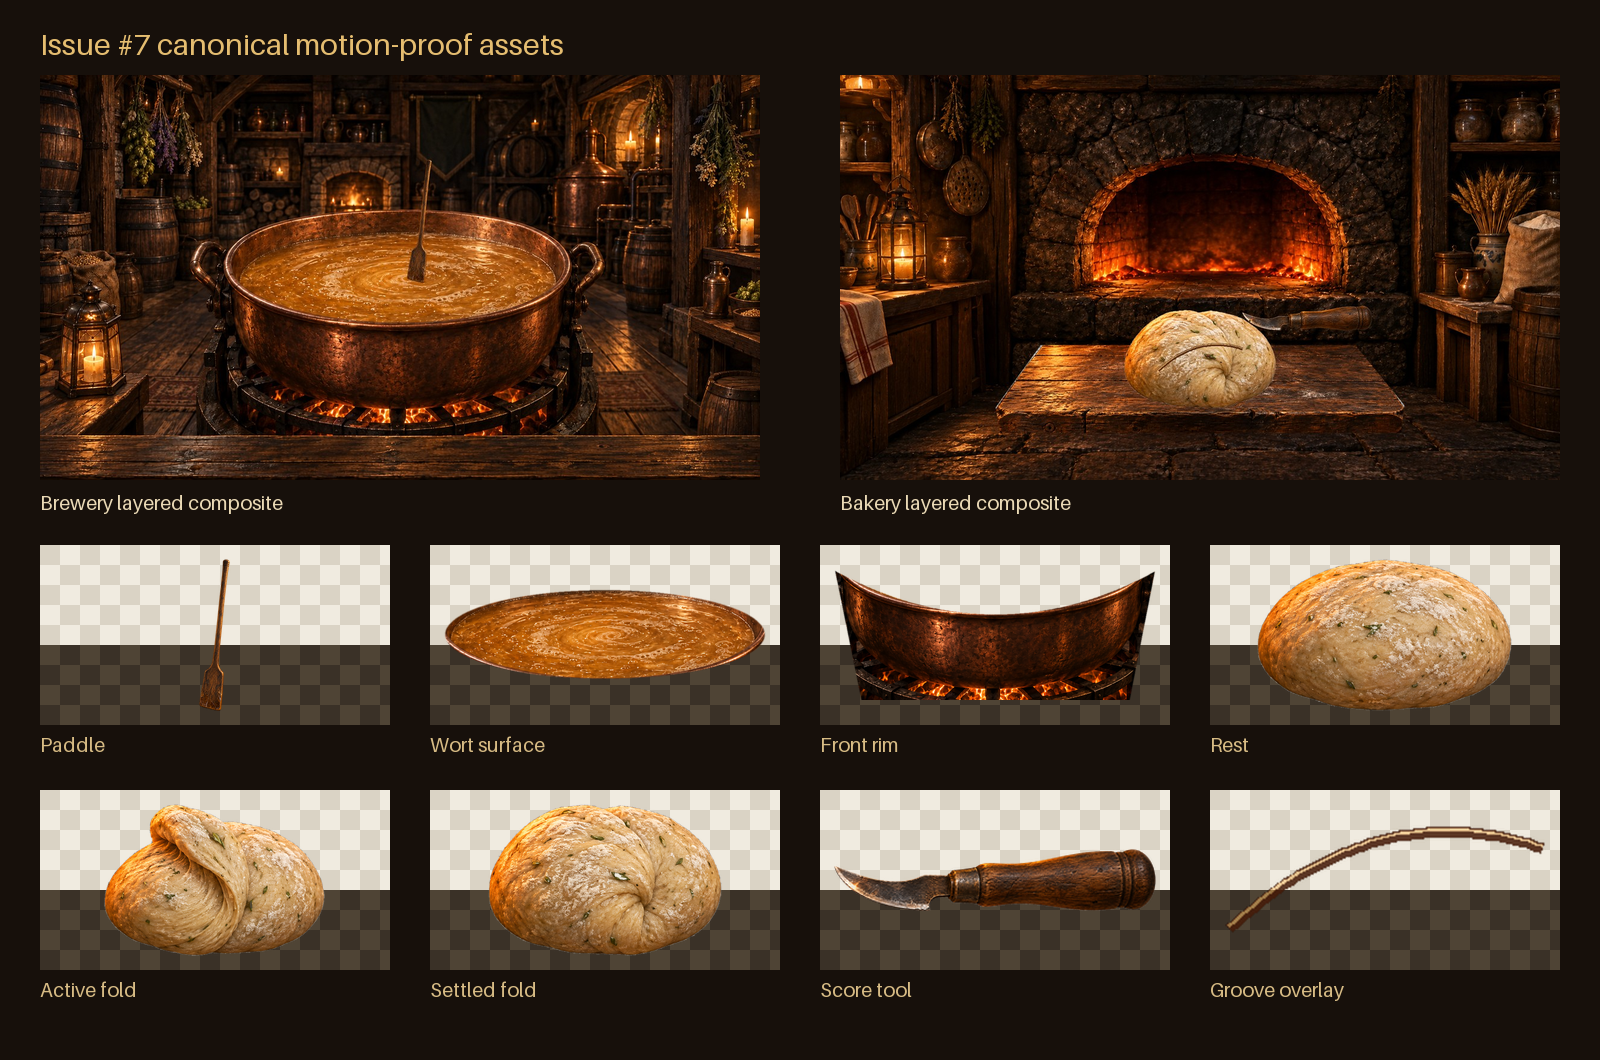
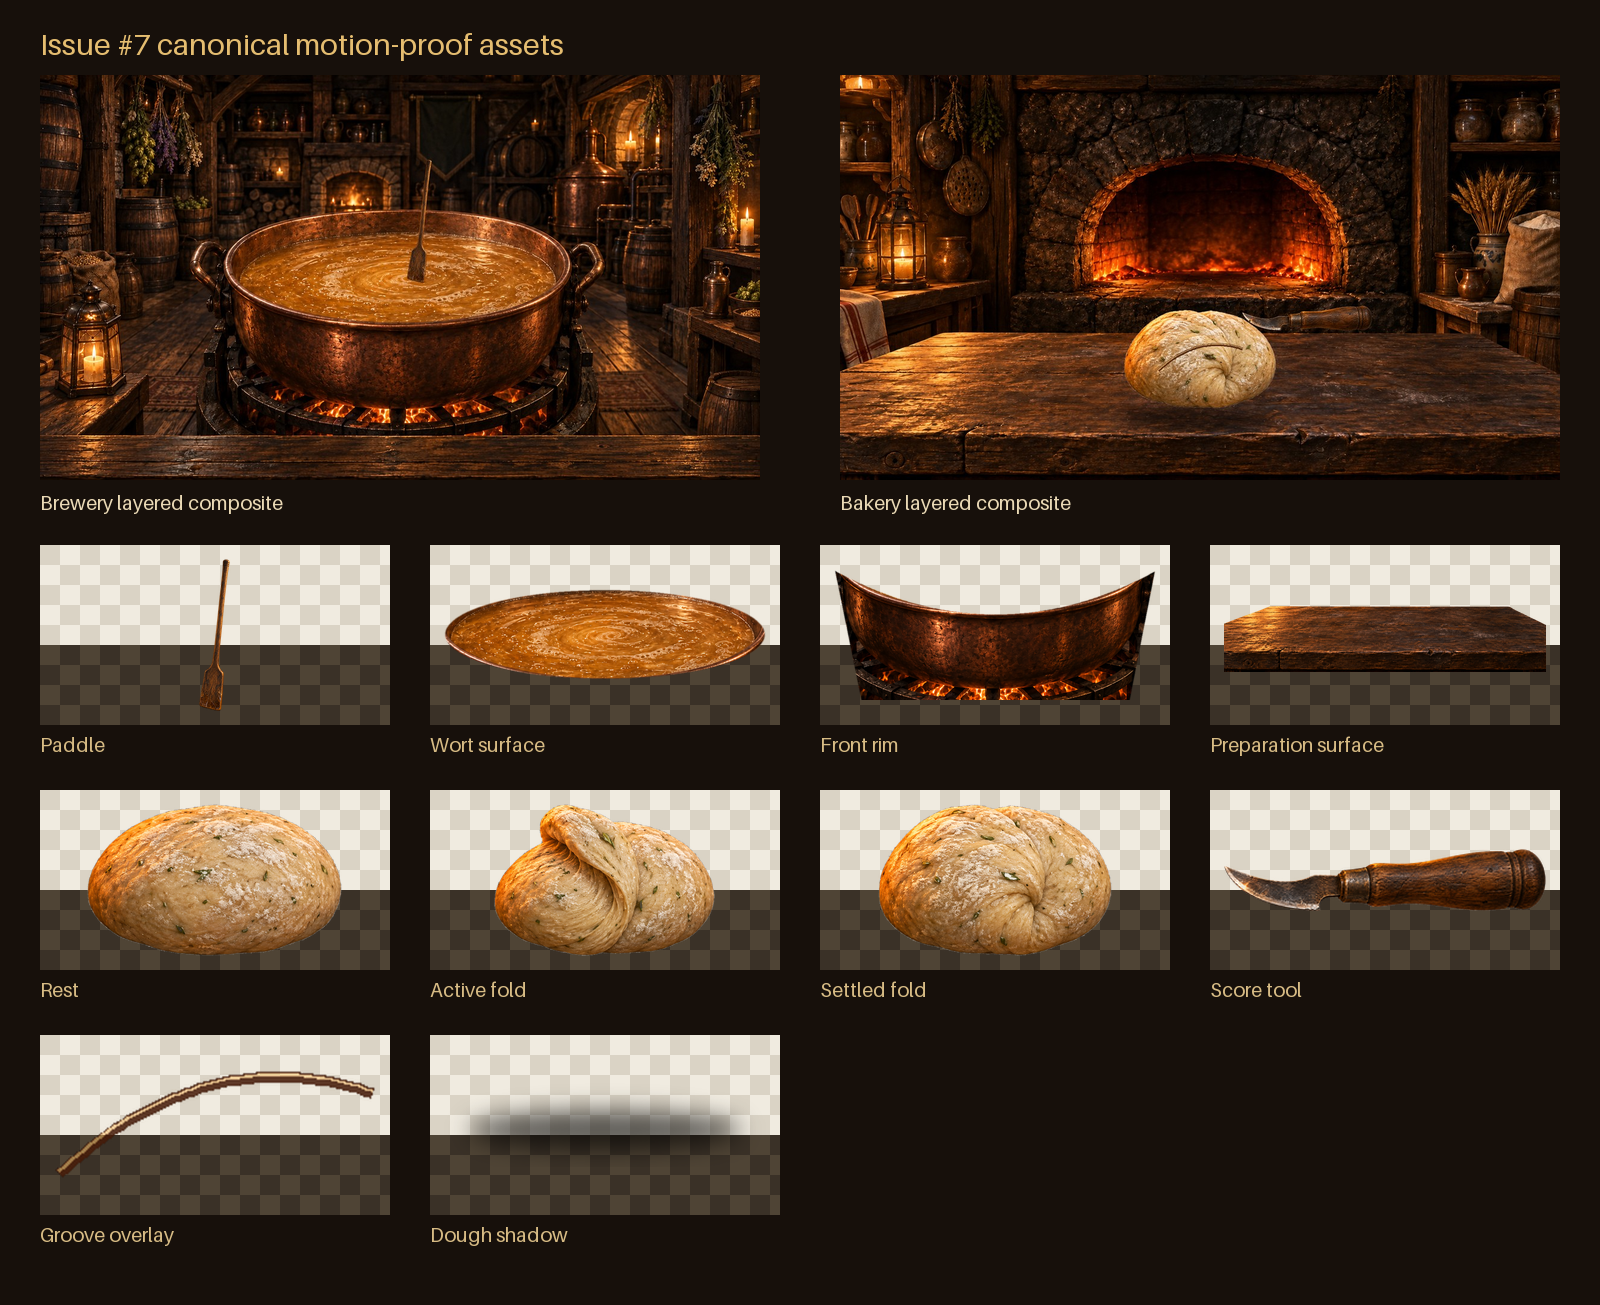
feat: restore full-width bakery workbench

diff --git a/scripts/validate-scene-assets.ts b/scripts/validate-scene-assets.ts
@@ -75,7 +75,7 @@ const runtimeAssets: ExpectedAsset[] = [
[7 lines of base64/hex data omitted]
 ];

diff --git a/docs/design/asset-manifest.md b/docs/design/asset-manifest.md
@@ -45,7 +45,7 @@ The wort surface and foreground rim are extracted from the same reviewed environ
 | Runtime asset | Dimensions | Alpha | SHA-256 | Source and use |
 | --- | ---: | :---: | --- | --- |
[6 lines of base64/hex data omitted]
@@ -53,13 +53,13 @@ The wort surface and foreground rim are extracted from the same reviewed environ
[2 lines of base64/hex data omitted]
 
-**Bakery environment brief:** Create a fixed-camera soot-dark stone oven room with a clear oven mouth, restrained fire bed, aged timber, side shelves, flour sacks, and warm lantern fill. Include no person, hand, dough, bread, peel, scoring tool, interface, text, logo, meter, or fabricated game state. The final environment edit removes the foreground bench so the canonical preparation board can be shown only during the relevant phases.
+**Bakery environment brief:** Create a fixed-camera soot-dark stone oven room with a clear oven mouth, restrained fire bed, aged timber, side shelves, flour sacks, and warm lantern fill. Include no person, hand, dough, bread, peel, scoring tool, interface, text, logo, meter, or fabricated game state. The final environment edit removes the foreground bench so the canonical full-width workbench can be shown only during the relevant phases.
 
 **Dough pose-sheet brief:** Create exactly three isolated views of the same lightly floured herb dough under one camera and light: a low rest pose, one active left-to-center fold, and one tighter settled fold. Keep scale, material, flour pattern family, herb inclusion, and light direction compatible. The three runtime cutouts are crops from this single generated sheet; they are not independently generated intermediate frames.
 
-**Preparation surface and scoring-tool briefs:** The surface is one broad low-profile dark-oak kneading board with a worn bevel and restrained flour traces. The tool is one horizontal worn-wood baker's lame with a readable left blade tip. Both match the oven light and contain no hand, dough, room, interface, text, symbol, or gameplay information.
+**Preparation surface and scoring-tool briefs:** Preserve the broad foreground dark-oak workbench from the first Bakery environment, including its full-width perspective, worn planks, front apron, edge wear, and oven highlights. Extract it onto real transparency without changing its camera or scale. The tool is one horizontal worn-wood baker's lame with a readable left blade tip. Both contain no hand, dough, interface, text, symbol, or gameplay information.
 
-The generated pose sheet, scoring tool, and preparation surface initially contained a rendered checker field. Export removed that field and produced real alpha pixels. The checked runtime files contain alpha, while both environment plates are deliberately opaque.
+The generated pose sheet and scoring tool initially contained a rendered checker field. Export removed that field and produced real alpha pixels. The replacement preparation surface was generated directly with real transparency from the preferred original workbench. The checked runtime files contain alpha, while both environment plates are deliberately opaque.
 
 ### Contract and review evidence
 

diff --git a/docs/design/concept-ui-spec.md b/docs/design/concept-ui-spec.md
@@ -107,12 +107,12 @@ Normal idle, completion, and reduced-motion views use the same paddle at its sta
 
 ### Bakery layer and motion contract
 
-The Bakery holds one fixed view of a soot-dark stone oven. A removable kneading board establishes the preparation phase without changing cameras, then the board and dough layers may be hidden for the existing oven phase. Fire orange, flour, dough, stone, and timber retain distinct material values.
+The Bakery holds one fixed view of a soot-dark stone oven. The preferred broad foreground workbench returns as a removable preparation layer, preserving its original full-width composition while still allowing the surface and dough to disappear for the existing oven phase. Fire orange, flour, dough, stone, and timber retain distinct material values.
 
 | Z | Layer | Design bounds | Purpose |
 | ---: | --- | --- | --- |
 | 0 | `bakery-environment.webp` | `0, 0, 1672, 941` | Opaque fixed oven room without hands, bread, tools, UI, or text |
-| 1 | `bakery-preparation-surface.webp` | `356, 570, 960, 320` | Removable oak kneading board for folding, scoring, and ready phases |
+| 1 | `bakery-preparation-surface.webp` | `0, 550, 1672, 391` | Removable full-width oak workbench for folding, scoring, and ready phases |
 | 2 | `bakery-dough-shadow.webp` | `596, 605, 480, 250` | Stable contact shadow independent of the dough texture |
 | 3 | Rest, active-fold, or confirmed-fold dough | `596, 535, 480, 250` | Three matching poses cropped from one canonical generated pose sheet |
 | 4 | `bakery-score-groove-01.webp` | `596, 535, 480, 250` | First confirmed score overlay; it is never painted into a replacement loaf |
@@ -136,7 +136,7 @@ The artwork is presentational. Existing server actions, immutable command IDs, r
 ### Motion-proof review evidence
 
 - [`motion-assets-brewery.jpg`](../screenshots/motion-assets-brewery.jpg) verifies the paddle behind the generated front-rim occluder in the fixed Brewery camera.
-- [`motion-assets-bakery.jpg`](../screenshots/motion-assets-bakery.jpg) verifies the preparation board, shadow, confirmed dough, scoring tool, and groove in the fixed Bakery camera.
+- [`motion-assets-bakery.jpg`](../screenshots/motion-assets-bakery.jpg) verifies the full-width preparation workbench, shadow, confirmed dough, scoring tool, and groove in the fixed Bakery camera.
 - [`motion-asset-contact-sheet.png`](../screenshots/motion-asset-contact-sheet.png) shows the two assembled scenes and each alpha cutout against a checker field.
 
 These images prove layer compatibility and art direction. Interactive motion, rapid reversal, display-density checks, and demonstration clips remain the acceptance work of issue #8.
